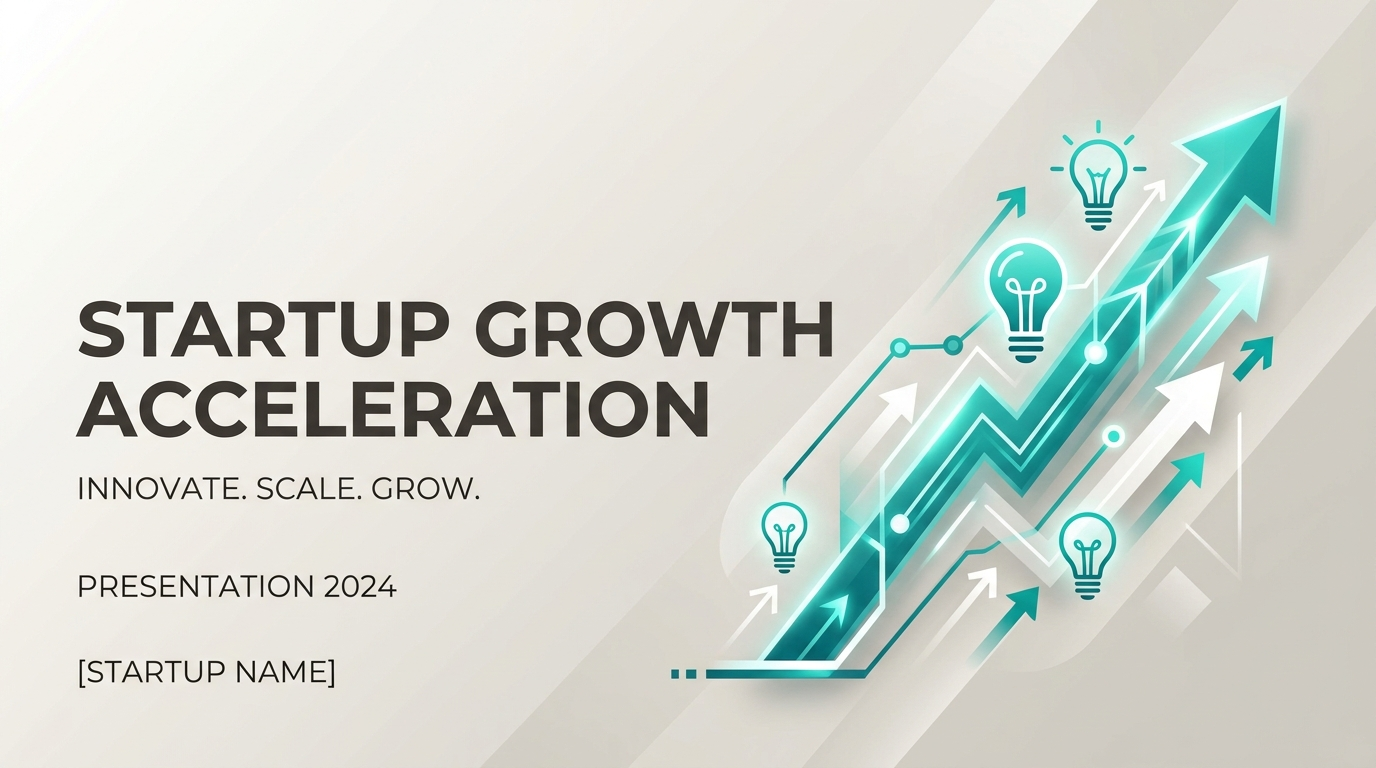
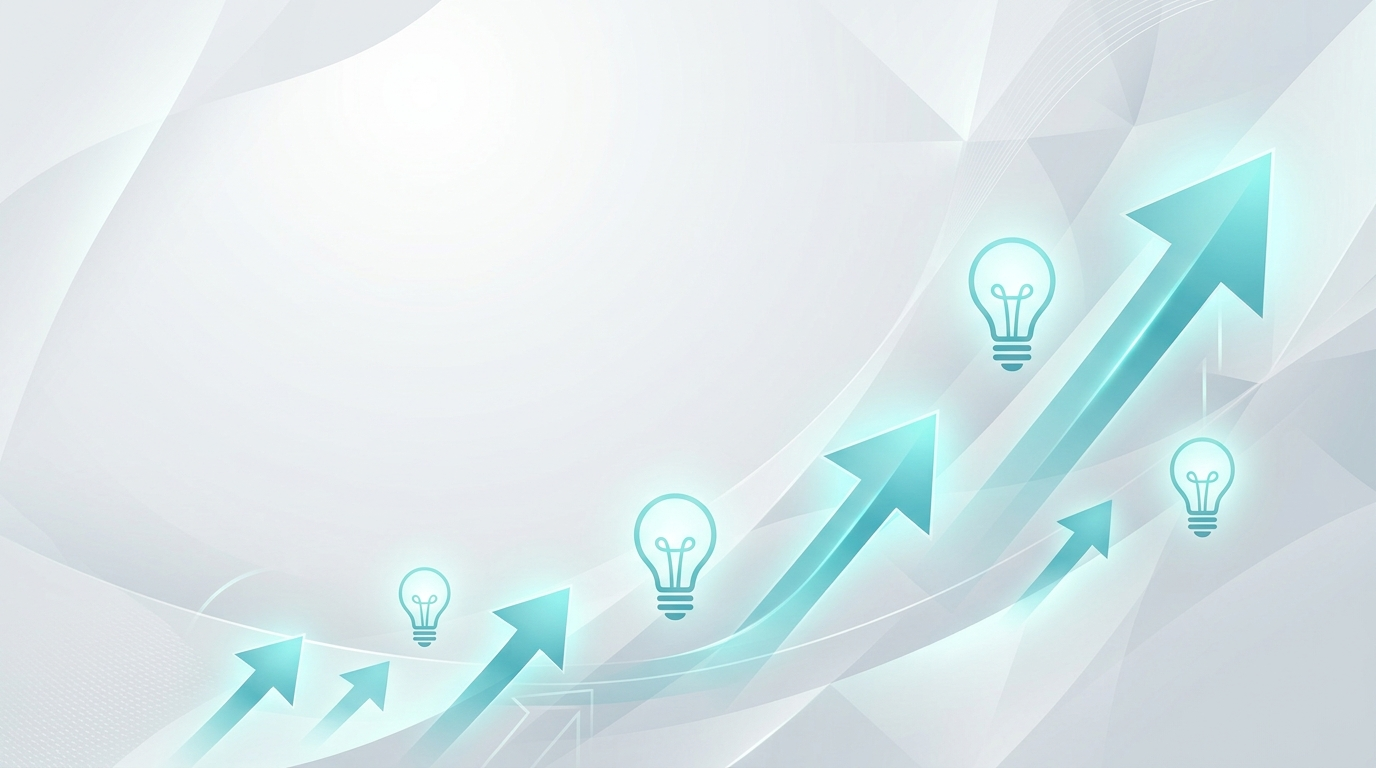
fix(template): show Gemini-generated images in Startup Amplify live preview
- Update AMP-COVER and AMP-CONTENT-SPLIT preview renderers in
  TemplatesView.tsx to render slide.image.
- Add preview CSS for .amp-cover-bg and .amp-split-img.
- Regenerate cover and content preview images with Gemini and copy to
  apps/web/public/templates/.

diff --git a/apps/web/src/views/TemplatesView.tsx b/apps/web/src/views/TemplatesView.tsx
@@ -516,7 +516,8 @@ const STARTUP_AMPLIFY_CSS = `
 .amp-insight-bar{margin-top:16px;background:#FFFFFF;border-left:4px solid #D91E18;padding:12px 16px;font-family:var(--font-body);font-size:13px;line-height:1.5;}
 .amp-insight-bar strong{color:#D91E18;font-weight:700;}
 .amp-cover{position:relative;overflow:hidden;}
-.amp-cover-content{display:flex;flex-direction:column;align-items:center;justify-content:center;text-align:center;height:100%;padding:60px;}
+.amp-cover-bg{position:absolute;top:0;left:0;width:100%;height:100%;object-fit:cover;opacity:0.22;z-index:0;}
+.amp-cover-content{position:relative;z-index:1;display:flex;flex-direction:column;align-items:center;justify-content:center;text-align:center;height:100%;padding:60px;}
 .amp-cover-title{font-family:var(--font-display);font-size:54px;font-weight:700;margin:0;line-height:1.1;}
 .amp-cover-subtitle{font-family:var(--font-display);font-size:26px;margin-top:14px;}
 .amp-cover-meta{font-family:var(--font-body);font-size:14px;color:#888888;margin-top:14px;}
@@ -538,6 +539,7 @@ const STARTUP_AMPLIFY_CSS = `
 .amp-split{display:flex;gap:36px;height:340px;}
 .amp-split-left{flex:1.1;display:flex;flex-direction:column;gap:16px;}
 .amp-split-right{flex:0.9;display:flex;flex-direction:column;gap:14px;}
+.amp-split-img{width:100%;height:160px;object-fit:cover;border-radius:8px;}
 .amp-split-bullets{margin:0;padding:0 0 0 18px;font-family:var(--font-body);font-size:15px;line-height:1.7;color:#2C2C2C;}
 .amp-info-card{background:#FFFFFF;border-radius:8px;padding:16px;box-shadow:0 1px 3px rgba(0,0,0,0.06);}
 .amp-info-card-title{font-family:var(--font-display);font-size:16px;font-weight:700;margin-bottom:4px;}
@@ -1426,6 +1428,7 @@ function buildSlideHtml(templateId: string, slide: SlideData): string {
   if (templateId === 'STARTUP_AMPLIFY') {
     if (slide.layout === 'AMP-COVER') return `
 <div class="slide amp-cover">
+  ${slide.image ? `<img class="amp-cover-bg" src="${slide.image}" />` : ''}
   <div class="amp-rule amp-rule-top"></div>
   <div class="amp-cover-content">
     <h1 class="amp-cover-title">${t}</h1>
@@ -1467,6 +1470,7 @@ function buildSlideHtml(templateId: string, slide: SlideData): string {
   </div>
   <div class="amp-split">
     <div class="amp-split-left">
+      ${slide.image ? `<img class="amp-split-img" src="${slide.image}" />` : ''}
       ${(slide.bullets || []).length > 0 ? `
       <ul class="amp-split-bullets">
         ${slide.bullets.map(b => `<li>${b}</li>`).join('')}
